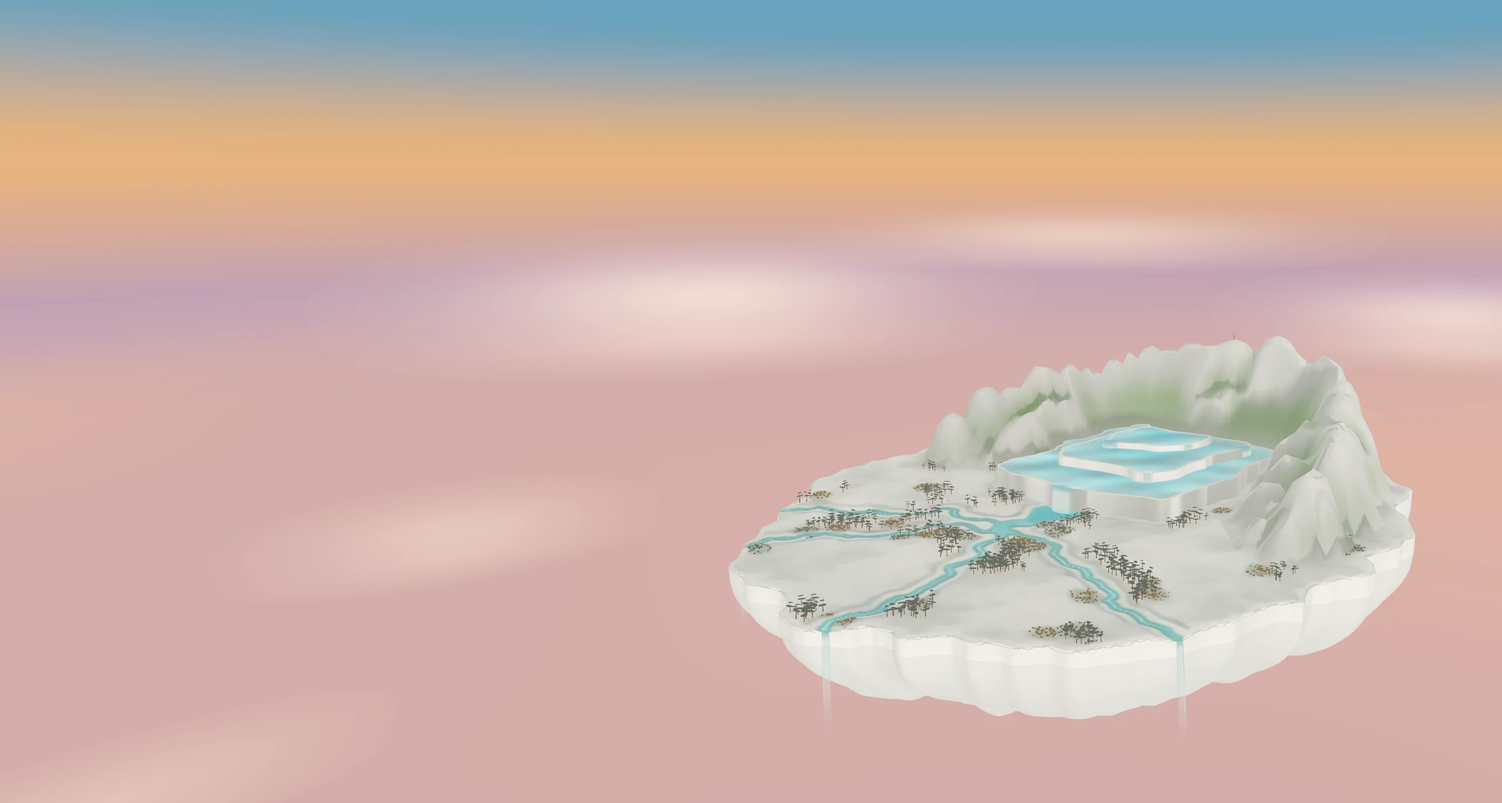
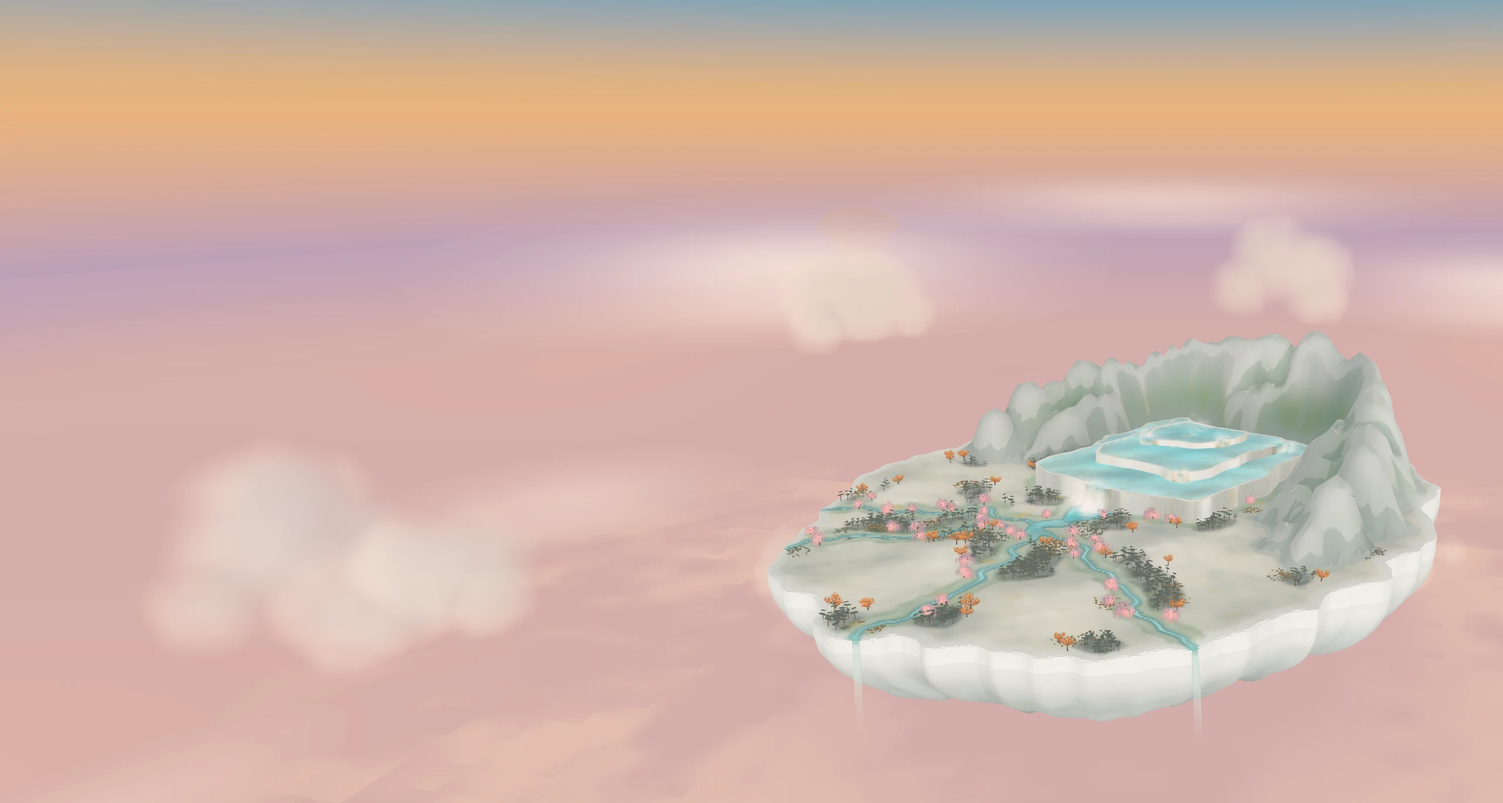
Landing page is now Ideas; fish scatter, a walking dweller, new pictures.
- The plain welcome page is gone: the site opens on Ideas; the header keeps World and Atlas.
- Ideas: a dweller comes to drink and the school scatters, then regroups (the island's SCARE rule);
  the jade panel's dot is now a dweller walking den, water, meadow; the Enter button glows.
- Opening and closing pictures re-shot from the same framing (new far shading and clouds).
- README: owner's screenshots (overview, photo mode, creature editor, tour), links to the new home.

diff --git a/final_project/src/pages/ideas/FishPond.tsx b/final_project/src/pages/ideas/FishPond.tsx
@@ -2,21 +2,29 @@ import { useEffect, useRef } from 'react';
 import { JADE_UI, PORCELAIN } from '../../core/palette';
 import { createRng } from '../../core/rng';
 import { SCHOOL_DEFAULT, schoolPull, type Swimmer } from '../../experiments/wonderland-terrain/schoolRules';
+import { SCARE } from '../../experiments/wonderland-terrain/streamFish';
+import { drawDweller } from './dweller';
 
 /**
  * The streamlings' own school rule (schoolRules.ts), running live on nine fish in a round pool,
- * seen from above. The view drifts with the school over a pebbled floor (so the swimming reads),
+ * seen from above, the whole pool in view over a pebbled floor (so the swimming reads),
  * each fish drawn as the island's: a white body with a jade patch, a beating tail. The red one
  * leads; its three rings are how far each rule reaches (in its body lengths).
+ *
+ * Now and then a dweller comes down to drink (the island's rule, streamFish.ts SCARE): every fish
+ * within its reach darts away, keeps clear while its fear lasts, then the school's rules bring it back.
  */
-const R = 6; // the pool's radius, metres
+const R = 3.5; // the pool's radius, metres
 const L = 0.5; // a fish's length, metres
-const VIEW = 5; // metres across the panel
+const VIEW = 2 * R + 4; // metres across: the pool and the rim the dweller drinks at
+/** A dweller's visit, seconds: walking in, drinking, walking off, away. */
+const VISIT = { in: 4, drink: 6, out: 4, away: 6 };
+const DWELLER = 1.5; // its body length, metres
 
 /** The ink colour at an opacity (shadows and outlines). */
 const ink = (a: number) => `rgba(${[1, 3, 5].map((o) => parseInt(JADE_UI.ink.slice(o, o + 2), 16)).join(',')},${a})`;
 
-interface Fish extends Swimmer { phase: number; mark: number }
+interface Fish extends Swimmer { phase: number; mark: number; fear: number }
 
 export function FishPond() {
   const canvas = useRef<HTMLCanvasElement>(null);
@@ -25,35 +33,57 @@ export function FishPond() {
     if (!c || !ctx) return;
     const rand = createRng(684);
     const reduced = matchMedia('(prefers-reduced-motion: reduce)').matches;
-    const fish: Fish[] = Array.from({ length: 9 }, () => ({ x: (rand() - 0.5) * 2, z: (rand() - 0.5) * 2, heading: rand() * Math.PI * 2, length: L, phase: rand() * 6, mark: rand() }));
+    const fish: Fish[] = Array.from({ length: 9 }, () => ({ x: (rand() - 0.5) * 2, z: (rand() - 0.5) * 2, heading: rand() * Math.PI * 2, length: L, phase: rand() * 6, mark: rand(), fear: 0 }));
     const pebbles = Array.from({ length: 260 }, () => {
       const a = rand() * Math.PI * 2, r = Math.sqrt(rand()) * R;
       return { x: Math.cos(a) * r, z: Math.sin(a) * r, s: 0.03 + rand() * 0.07, a: rand() * 3 };
     });
-    let frame = 0, last = performance.now(), t = 0, cx = 0, cz = 0;
+    let frame = 0, last = performance.now(), t = 0;
+    let visitAt = 6, side = 0; // when the next visit starts, and where on the rim it drinks
     const draw = (now: number) => {
       const dt = reduced ? 0 : Math.min(0.05, (now - last) / 1000); last = now; t += dt;
       // Where the school is heading: a slow loop round the pool.
       const gx = Math.cos(t * 0.12) * R * 0.5, gz = Math.sin(t * 0.17) * R * 0.45;
+      // The dweller's visit: in from beyond the rim on the school's side, drink, then off again.
+      const period = VISIT.in + VISIT.drink + VISIT.out + VISIT.away;
+      if (t >= visitAt + period) visitAt += period;
+      const v = t - visitAt;
+      // It comes down at the rim nearest the school (so the school is within its reach).
+      if (v >= 0 && v < VISIT.in * 0.5) { const sx = fish.reduce((a, f) => a + f.x, 0), sz = fish.reduce((a, f) => a + f.z, 0); side = Math.atan2(sz, sx); }
+      const ux = Math.cos(side), uz = Math.sin(side);
+      const reach = (k: number) => R + DWELLER * 0.62 + k * 5; // the body's middle, its muzzle at the water's edge when k = 0
+      let dweller: { x: number; z: number; dist: number; step: number; dip: number; drinking: boolean } | null = null;
+      if (v >= 0 && v < VISIT.in) dweller = { x: 0, z: 0, dist: reach(1 - v / VISIT.in), step: v * 7, dip: 0, drinking: false };
+      else if (v >= VISIT.in && v < VISIT.in + VISIT.drink) dweller = { x: 0, z: 0, dist: reach(0), step: 0, dip: 1, drinking: true };
+      else if (v >= VISIT.in + VISIT.drink && v < VISIT.in + VISIT.drink + VISIT.out) { const o = v - VISIT.in - VISIT.drink; dweller = { x: 0, z: 0, dist: reach(o / VISIT.out), step: o * 7, dip: 0, drinking: false }; }
+      if (dweller) { dweller.x = ux * dweller.dist; dweller.z = uz * dweller.dist; }
+      const muzzle = dweller && { x: ux * (dweller.dist - DWELLER * 0.62), z: uz * (dweller.dist - DWELLER * 0.62) };
       for (const f of fish) {
+        // Frightened: within reach of a dweller at the water (drinking or close by).
+        if (muzzle && dweller!.dist < reach(0.3) && Math.hypot(f.x - muzzle.x, f.z - muzzle.z) < SCARE.radius) f.fear = 1;
+        f.fear = Math.max(0, f.fear - dt / SCARE.calm);
         const pull = schoolPull(f, fish, SCHOOL_DEFAULT);
         let want = f === fish[0] ? Math.atan2(gz - f.z, gx - f.x) : f.heading;
         if (pull.dir) { const w = pull.repelled ? 2.5 : 1; want = Math.atan2(Math.sin(want) * 0.5 + pull.dir[1] * w, Math.cos(want) * 0.5 + pull.dir[0] * w); }
+        if (f.fear > 0 && muzzle && Math.hypot(f.x - muzzle.x, f.z - muzzle.z) < SCARE.radius * SCARE.keep) want = Math.atan2(f.z - muzzle.z, f.x - muzzle.x);
         if (Math.hypot(f.x, f.z) > R * 0.85) want = Math.atan2(-f.z, -f.x);
         const d = Math.atan2(Math.sin(want - f.heading), Math.cos(want - f.heading));
-        f.heading += Math.max(-dt * 1.8, Math.min(dt * 1.8, d));
-        const speed = 0.55 + 0.15 * Math.sin(t * 1.3 + f.phase);
+        const turn = f.fear > 0.6 ? 5 : 1.8;
+        f.heading += Math.max(-dt * turn, Math.min(dt * turn, d));
+        // The dart: up to SCARE.burst times its cruise at the start of the fright, easing back.
+        const speed = (0.55 + 0.15 * Math.sin(t * 1.3 + f.phase)) * (1 + (SCARE.burst - 1) * f.fear ** 4);
         f.x += Math.cos(f.heading) * speed * dt; f.z += Math.sin(f.heading) * speed * dt;
+        // The pool's wall: a darting fish slides along it rather than out of the water.
+        const r = Math.hypot(f.x, f.z), wall = R - L * 0.6;
+        if (r > wall) { f.x *= wall / r; f.z *= wall / r; }
       }
-      const mx = fish.reduce((s, f) => s + f.x, 0) / fish.length, mz = fish.reduce((s, f) => s + f.z, 0) / fish.length;
-      const ease = reduced ? 1 : 1 - Math.exp(-dt * 1.5);
-      cx += (mx - cx) * ease; cz += (mz - cz) * ease;
 
       const w = c.clientWidth, h = c.clientHeight, dpr = Math.min(devicePixelRatio || 1, 2);
       if (!w || !h) { frame = requestAnimationFrame(draw); return; }
       if (c.width !== Math.round(w * dpr)) { c.width = Math.round(w * dpr); c.height = Math.round(h * dpr); }
       ctx.setTransform(dpr, 0, 0, dpr, 0, 0);
-      const k = w / VIEW, X = (x: number) => w / 2 + (x - cx) * k, Y = (z: number) => h / 2 + (z - cz) * k;
+      // The whole pool and its rim in view (the dweller drinks at the rim; the school crosses to the far side).
+      const k = Math.min(w / VIEW, h / (2 * R + DWELLER * 2.4)), X = (x: number) => w / 2 + x * k, Y = (z: number) => h / 2 + z * k;
 
       // Stone around, water inside: milky jade, deeper towards the middle.
       ctx.fillStyle = PORCELAIN.rockFace; ctx.fillRect(0, 0, w, h);
@@ -70,6 +100,15 @@ export function FishPond() {
       for (const [r, col] of [[SCHOOL_DEFAULT.attract, JADE_UI.jade], [SCHOOL_DEFAULT.align, JADE_UI.jadeDeep], [SCHOOL_DEFAULT.repel, JADE_UI.seal]] as const) {
         ctx.beginPath(); ctx.arc(X(lead.x), Y(lead.z), r * L * k, 0, Math.PI * 2);
         ctx.setLineDash([4, 4]); ctx.strokeStyle = col; ctx.lineWidth = 1.2; ctx.stroke(); ctx.setLineDash([]);
+      }
+
+      // The dweller (its reach dashed round its muzzle while it drinks).
+      if (dweller && muzzle) {
+        if (dweller.drinking) {
+          ctx.beginPath(); ctx.arc(X(muzzle.x), Y(muzzle.z), SCARE.radius * k, 0, Math.PI * 2);
+          ctx.setLineDash([2, 5]); ctx.strokeStyle = ink(0.35); ctx.lineWidth = 1; ctx.stroke(); ctx.setLineDash([]);
+        }
+        drawDweller(ctx, X(dweller.x), Y(dweller.z), side + Math.PI * (dweller.dist > reach(0) + 0.01 && v > VISIT.in ? 0 : 1), DWELLER * k, dweller.step, dweller.dip);
       }
 
       // Each fish: a soft shadow on the floor, a tapered white body, a jade patch, a beating tail.

diff --git a/final_project/src/pages/Ideas.tsx b/final_project/src/pages/Ideas.tsx
@@ -1,12 +1,14 @@
 import { useEffect, useRef, useState, type CSSProperties, type ReactNode } from 'react';
 import { Link } from 'react-router-dom';
-import { JADE_UI } from '../core/palette';
+import { JADE_UI, PORCELAIN } from '../core/palette';
+import { drawDweller } from './ideas/dweller';
 import { useLanguage } from '../i18n/LanguageContext';
 import type { StringKey } from '../i18n/strings';
 import { LifeCard, type LifeNeed } from '../experiments/wonderland-terrain/LifeCard';
 import { GrowSteps } from './ideas/GrowSteps';
 import { FishPond } from './ideas/FishPond';
 import { SCHOOL_DEFAULT } from '../experiments/wonderland-terrain/schoolRules';
+import { SCARE } from '../experiments/wonderland-terrain/streamFish';
 
 /**
  * The Ideas page (docs/plan-2026-11-19-ideas-page.md): one full-screen stage held in place while the
@@ -80,34 +82,79 @@ function LifeMini() {
     needs={needs} traits={[{ word: t('trait.roam.high'), note: '' }, { word: t('trait.bold.low'), note: '' }]} />;
 }
 
-/** Dwelling turns stone to jade: a walker's steps tint the cells it crosses, a little each time. */
+/**
+ * Dwelling turns stone to jade: a dweller walks its day (den, water, meadow, den again), pausing at
+ * each, and the cells under its steps tint a little each time; the ways it walks most turn deepest.
+ */
+const STOPS = [
+  { x: 0.16, z: 0.62, kind: 'den', stay: 2.4 },
+  { x: 0.8, z: 0.3, kind: 'water', stay: 1.8 },
+  { x: 0.62, z: 0.78, kind: 'meadow', stay: 2.6 },
+] as const;
 function JadeMini() {
   const canvas = useRef<HTMLCanvasElement>(null);
   useEffect(() => {
     const c = canvas.current, ctx = c?.getContext('2d');
     if (!c || !ctx) return;
     const NX = 28, NZ = 16, cells = new Float32Array(NX * NZ);
-    // Stone white to jade (JADE_UI.paper → jadeDeep), as the island's contact tint deepens.
+    // Stone white to jade (JADE_UI.paper -> jadeDeep), as the island's contact tint deepens.
     const from = [0xf6, 0xf3, 0xec], to = [0x5f, 0x87, 0x7d];
-    let frame = 0, t = 0, last = performance.now();
+    const reduced = matchMedia('(prefers-reduced-motion: reduce)').matches;
+    // A walk: each leg bends a little (the same few ways, walked again and again).
+    let leg = 0, legT = 0, waiting: number = STOPS[0].stay, step = 0;
+    let px = STOPS[0].x * NX, pz = STOPS[0].z * NZ, heading = 0;
+    let frame = 0, last = performance.now();
     const draw = (now: number) => {
-      const dt = Math.min(0.05, (now - last) / 1000); last = now; t += dt;
-      // A loop between a "den", a "pool" and a "meadow": the same few ways, walked again and again.
-      const x = NX / 2 + Math.sin(t * 0.5) * NX * 0.38, z = NZ / 2 + Math.sin(t * 1.0 + 0.6) * NZ * 0.3;
-      for (let i = -1; i <= 1; i++) for (let j = -1; j <= 1; j++) {
-        const ci = Math.round(x) + i, cj = Math.round(z) + j;
-        if (ci >= 0 && cj >= 0 && ci < NX && cj < NZ) cells[cj * NX + ci] = Math.min(1, cells[cj * NX + ci] + dt * (i || j ? 0.09 : 0.25));
+      const dt = reduced ? 0 : Math.min(0.05, (now - last) / 1000); last = now;
+      const a = STOPS[leg], b = STOPS[(leg + 1) % STOPS.length];
+      if (waiting > 0) waiting -= dt;
+      else {
+        const ax = a.x * NX, az = a.z * NZ, bx = b.x * NX, bz = b.z * NZ;
+        const len = Math.hypot(bx - ax, bz - az);
+        legT = Math.min(1, legT + dt * 3.2 / len);
+        const bend = Math.sin(legT * Math.PI) * 2.2 * (leg % 2 ? 1 : -1);
+        const nx = -(bz - az) / len, nz = (bx - ax) / len;
+        const x = ax + (bx - ax) * legT + nx * bend, z = az + (bz - az) * legT + nz * bend;
+        heading = Math.atan2(z - pz, x - px); px = x; pz = z; step += dt * 9;
+        if (legT >= 1) { leg = (leg + 1) % STOPS.length; legT = 0; waiting = STOPS[leg].stay; }
+        for (let i = -1; i <= 1; i++) for (let j = -1; j <= 1; j++) {
+          const ci = Math.round(px) + i, cj = Math.round(pz) + j;
+          if (ci >= 0 && cj >= 0 && ci < NX && cj < NZ) cells[cj * NX + ci] = Math.min(1, cells[cj * NX + ci] + dt * (i || j ? 0.05 : 0.16));
+        }
       }
       const w = c.clientWidth, h = c.clientHeight, dpr = Math.min(devicePixelRatio || 1, 2);
-      if (c.width !== w * dpr) { c.width = w * dpr; c.height = h * dpr; }
+      if (!w || !h) { frame = requestAnimationFrame(draw); return; }
+      if (c.width !== Math.round(w * dpr)) { c.width = Math.round(w * dpr); c.height = Math.round(h * dpr); }
       ctx.setTransform(dpr, 0, 0, dpr, 0, 0);
       const cw = w / NX, ch = h / NZ;
       for (let j = 0; j < NZ; j++) for (let i = 0; i < NX; i++) {
         const v = cells[j * NX + i];
-        ctx.fillStyle = `rgb(${from.map((a, k) => Math.round(a + (to[k] - a) * v)).join(',')})`;
+        ctx.fillStyle = `rgb(${from.map((f, k) => Math.round(f + (to[k] - f) * v)).join(',')})`;
         ctx.fillRect(i * cw, j * ch, cw - 1, ch - 1);
       }
-      ctx.beginPath(); ctx.arc(x * cw, z * ch, Math.min(cw, ch) * 0.55, 0, Math.PI * 2); ctx.fillStyle = JADE_UI.ink; ctx.fill();
+      // The three places it keeps going to.
+      for (const st of STOPS) {
+        const x = st.x * w, y = st.z * h, r = Math.min(cw, ch) * 1.6;
+        ctx.lineWidth = 1.4; ctx.strokeStyle = JADE_UI.inkDim;
+        if (st.kind === 'den') {
+          ctx.fillStyle = PORCELAIN.rockFace;
+          ctx.beginPath(); ctx.moveTo(x - r * 1.2, y + r * 0.7); ctx.quadraticCurveTo(x, y - r * 1.7, x + r * 1.2, y + r * 0.7); ctx.closePath(); ctx.fill(); ctx.stroke();
+          ctx.fillStyle = JADE_UI.ink; ctx.globalAlpha = 0.35;
+          ctx.beginPath(); ctx.ellipse(x, y + r * 0.45, r * 0.45, r * 0.32, 0, Math.PI, 0); ctx.fill(); ctx.globalAlpha = 1;
+        } else if (st.kind === 'water') {
+          ctx.fillStyle = PORCELAIN.water;
+          ctx.beginPath(); ctx.ellipse(x, y, r * 1.5, r, 0.3, 0, Math.PI * 2); ctx.fill(); ctx.stroke();
+        } else {
+          ctx.strokeStyle = JADE_UI.jadeDeep;
+          for (const [ox, oz] of [[-0.9, 0.3], [0, -0.2], [0.9, 0.35]]) {
+            const gx = x + ox * r, gz = y + oz * r;
+            ctx.beginPath(); ctx.moveTo(gx - r * 0.3, gz - r * 0.5); ctx.lineTo(gx, gz + r * 0.3); ctx.lineTo(gx + r * 0.3, gz - r * 0.5); ctx.moveTo(gx, gz + r * 0.3); ctx.lineTo(gx, gz - r * 0.7); ctx.stroke();
+          }
+        }
+      }
+      // The dweller (head down while it drinks or grazes).
+      const atStop = waiting > 0 ? STOPS[leg].kind : null;
+      drawDweller(ctx, px * cw, pz * ch, heading, Math.min(cw, ch) * 3.4, waiting > 0 ? 0 : step, atStop === 'water' || atStop === 'meadow' ? 1 : 0);
       frame = requestAnimationFrame(draw);
     };
     frame = requestAnimationFrame(draw);
@@ -177,7 +224,8 @@ export default function Ideas() {
                 <svg viewBox="0 0 16 16" width="16" height="16" aria-hidden="true"><circle cx="8" cy="8" r="6" fill="none" stroke={col} strokeWidth="1.6" strokeDasharray="3 2" /></svg>
                 {t(`ideas.fish.${k}` as StringKey)}<em>{t('ideas.fish.body').replace('{n}', String(SCHOOL_RINGS[k]))}</em></li>)}
             </ul>
-            <p className="ideas-note">{t('ideas.fish.lead')}</p></Rise>
+            <p className="ideas-note">{t('ideas.fish.lead')}</p>
+            <p className="ideas-note">{t('ideas.fish.scare').replace('{r}', String(SCARE.radius)).replace('{s}', String(SCARE.calm))}</p></Rise>
           <Rise on={on(2)} delay={200} className="ideas-panel ideas-pond"><FishPond /></Rise>
         </div>, 'ideas-left')}
 

diff --git a/final_project/src/pages/ideas/dweller.ts b/final_project/src/pages/ideas/dweller.ts
@@ -1,0 +1,40 @@
+import { JADE_UI, PORCELAIN } from '../../core/palette';
+
+/**
+ * A jade dweller seen from above, for the Ideas page's small canvases: a pale body, neck and head,
+ * a pair of jade antlers, four legs stepping while it walks. `x, y` is the body's middle, `heading`
+ * where the muzzle points (radians, canvas axes), `s` its body length in pixels, `step` the gait phase
+ * (0 while standing), `dip` 0–1 lowers the head to drink or graze.
+ */
+export function drawDweller(ctx: CanvasRenderingContext2D, x: number, y: number, heading: number, s: number, step: number, dip = 0) {
+  ctx.save();
+  ctx.translate(x, y); ctx.rotate(heading);
+  const line = Math.max(0.8, s * 0.035);
+  ctx.lineJoin = 'round'; ctx.lineCap = 'round';
+  // Shadow.
+  ctx.fillStyle = 'rgba(46,51,48,0.16)';
+  ctx.beginPath(); ctx.ellipse(s * 0.06, s * 0.1, s * 0.48, s * 0.2, 0, 0, Math.PI * 2); ctx.fill();
+  // Legs: front and back pairs swinging in opposite phase.
+  ctx.strokeStyle = JADE_UI.ink; ctx.lineWidth = line * 2.2;
+  const swing = Math.sin(step) * s * 0.08;
+  for (const [lx, side, ph] of [[0.24, -1, 1], [0.24, 1, -1], [-0.26, -1, -1], [-0.26, 1, 1]] as const) {
+    ctx.beginPath(); ctx.moveTo(s * lx, side * s * 0.1); ctx.lineTo(s * lx + swing * ph, side * s * 0.2); ctx.stroke();
+  }
+  // Tail.
+  ctx.strokeStyle = PORCELAIN.fishBody; ctx.lineWidth = line * 2.4;
+  ctx.beginPath(); ctx.moveTo(-s * 0.42, 0); ctx.quadraticCurveTo(-s * 0.55, Math.sin(step * 0.5) * s * 0.06, -s * 0.6, s * 0.04); ctx.stroke();
+  // Body.
+  ctx.fillStyle = JADE_UI.paper; ctx.strokeStyle = JADE_UI.ink; ctx.lineWidth = line;
+  ctx.beginPath(); ctx.ellipse(-s * 0.02, 0, s * 0.42, s * 0.15, 0, 0, Math.PI * 2); ctx.fill(); ctx.stroke();
+  // Neck and head (reaching further forward as it dips to drink).
+  const hx = s * (0.5 + 0.12 * dip);
+  ctx.beginPath(); ctx.moveTo(s * 0.32, -s * 0.06); ctx.lineTo(hx - s * 0.04, -s * 0.05); ctx.lineTo(hx - s * 0.04, s * 0.05); ctx.lineTo(s * 0.32, s * 0.06); ctx.closePath(); ctx.fill(); ctx.stroke();
+  ctx.beginPath(); ctx.ellipse(hx, 0, s * 0.1, s * 0.075, 0, 0, Math.PI * 2); ctx.fill(); ctx.stroke();
+  // Antlers: two forked jade strokes.
+  ctx.strokeStyle = JADE_UI.jade; ctx.lineWidth = line * 1.6;
+  for (const side of [-1, 1]) {
+    ctx.beginPath(); ctx.moveTo(hx - s * 0.04, side * s * 0.05); ctx.lineTo(hx - s * 0.14, side * s * 0.17);
+    ctx.moveTo(hx - s * 0.1, side * s * 0.12); ctx.lineTo(hx - s * 0.03, side * s * 0.2); ctx.stroke();
+  }
+  ctx.restore();
+}

diff --git a/final_project/src/index.css b/final_project/src/index.css
@@ -995,7 +995,10 @@ body[data-world-pointer='creature'] .wonderland-canvas, body[data-world-pointer=
 /* The last scene sits in the night sky above the island; its door is a filled pill (readable on any ground). */
 .ideas-sky { justify-content: flex-start; padding-top: clamp(48px, 12vh, 140px); }
 .ideas-sky .ideas-enter { background: var(--jade-paper); border-color: var(--jade-paper); color: var(--jade-ink); }
-.ideas-sky .ideas-enter:hover { background: var(--jade-jade); border-color: var(--jade-jade); color: var(--jade-ink); }
+.ideas-sky .ideas-enter { transition: box-shadow .4s ease, transform .4s ease; }
+/* Hover: the button glows on the night sky (owner, 2026-11-22: turning jade green did not sit with the dark). */
+.ideas-sky .ideas-enter:hover, .ideas-sky .ideas-enter:focus-visible { background: var(--jade-paper); border-color: var(--jade-paper); color: var(--jade-ink); transform: translateY(-1px);
+  box-shadow: 0 0 0 1px color-mix(in srgb, var(--jade-paper) 60%, transparent), 0 0 18px 2px color-mix(in srgb, var(--jade-paper) 55%, transparent), 0 0 46px 10px color-mix(in srgb, var(--jade-paper) 22%, transparent); }
 
 /* Ideas, round 2: every text block sits on a paper card (as the dwellers' panels do), set with room to breathe. */
 .ideas-card { box-sizing: border-box; max-width: 620px; padding: clamp(22px, 3vw, 36px) clamp(24px, 3.4vw, 42px); border: 1px solid color-mix(in srgb, var(--jade-line) 80%, transparent); border-radius: 22px; background: color-mix(in srgb, var(--jade-paper) 88%, transparent); backdrop-filter: blur(10px) saturate(1.05); box-shadow: 0 18px 50px #2e333018; color: var(--jade-ink); }

diff --git a/final_project/src/main.tsx b/final_project/src/main.tsx
@@ -4,7 +4,6 @@ import { HashRouter, Navigate, NavLink, Route, Routes } from 'react-router-dom';
 import { ATLAS_UI, JADE_UI, PHOTO, SPEED_TRACK, SILK_UI, UI, LAYER, WEAR_DEBUG, ZONE_DEBUG } from './core/palette';
 import { LanguageProvider, useLanguage } from './i18n/LanguageContext';
 import { LANGUAGES } from './i18n/strings';
-import Home from './pages/Home';
 import Ideas from './pages/Ideas';
 import Atlas from './pages/Atlas';
 import ExperimentPage from './pages/ExperimentPage';
@@ -44,7 +43,6 @@ function Header() {
     <header className="site-header">
       <nav>
         <NavLink to="/" end className="brand">{t('site.brand')}</NavLink>
-        <NavLink to="/ideas">{t('nav.ideas')}</NavLink>
         <NavLink to="/world">{t('nav.world')}</NavLink>
         <NavLink to="/atlas">{t('nav.atlas')}</NavLink>
       </nav>
@@ -66,8 +64,9 @@ createRoot(document.getElementById('root')!).render(
         <Header />
         <main>
           <Routes>
-            <Route path="/" element={<Home />} />
-            <Route path="/ideas" element={<Ideas />} />
+            {/* The landing page is the Ideas page (owner, 2026-11-22: the plain welcome page went). */}
+            <Route path="/" element={<Ideas />} />
+            <Route path="/ideas" element={<Navigate to="/" replace />} />
             <Route path="/atlas" element={<Atlas />} />
             {/* The island moved to World; old links still arrive. */}
             <Route path="/atlas/wonderland-terrain" element={<Navigate to="/world" replace />} />

diff --git a/final_project/src/i18n/strings.ts b/final_project/src/i18n/strings.ts
@@ -796,6 +796,7 @@ const en = {
   'ideas.fish.attract': 'Too far: come back',
   'ideas.fish.body': '{n} × body length',
   'ideas.fish.lead': 'One fish leads; the rings are its view.',
+  'ideas.fish.scare': 'When a dweller comes to drink, every fish within {r} m darts away; after about {s} s the school’s rules bring them home.',
   'ideas.refs.credit': 'Paintings and books: Wikimedia Commons, public domain. Game images belong to their makers.',
   'exhibit.reshaping': 'Reshaping the island',
   'layers.title': 'Layers',
@@ -1917,6 +1918,7 @@ const zh: Record<StringKey, string> = {
   'ideas.fish.attract': '太远：游回来',
   'ideas.fish.body': '{n} 倍体长',
   'ideas.fish.lead': '红色那条带路，三个圈是它的感知范围。',
+  'ideas.fish.scare': '白玉兽来喝水时，{r} 米内的鱼会四散逃开；大约 {s} 秒后，鱼群的规则又把它们聚回来。',
   'ideas.refs.credit': '典籍与绘画图片来自维基共享资源（公有领域）；游戏图片版权归各自所有者。',
   'exhibit.reshaping': '正在重塑岛屿',
   'layers.title': '图层',

diff --git a/README.md b/README.md
@@ -1,8 +1,8 @@
-<a href="https://whitejadeisland.web.app/#/ideas"><img src="docs/readme/banner.jpg" alt="White Jade Island: an island above the clouds, grown from rules" width="100%"></a>
+<a href="https://whitejadeisland.web.app/"><img src="docs/readme/banner.jpg" alt="White Jade Island: an island above the clouds, grown from rules" width="100%"></a>
 
 <p align="center">
   <a href="https://whitejadeisland.web.app/#/world"><b>▶ Enter the island</b></a> &nbsp;·&nbsp;
-  <a href="https://whitejadeisland.web.app/#/ideas">Ideas</a> &nbsp;·&nbsp;
+  <a href="https://whitejadeisland.web.app/">How it grows</a> &nbsp;·&nbsp;
   <a href="https://whitejadeisland.web.app/#/atlas">Atlas</a> &nbsp;·&nbsp;
   <a href="docs/process.md">Process log</a>
 </p>
@@ -15,28 +15,35 @@
 
 | | |
 | :---: | :---: |
-| [![Terrain](docs/readme/rules.jpg)](https://whitejadeisland.web.app/#/ideas) | [![Water](docs/readme/water.jpg)](https://whitejadeisland.web.app/#/world) |
+| [![Terrain](docs/readme/rules.jpg)](https://whitejadeisland.web.app/) | [![Water](docs/readme/water.jpg)](https://whitejadeisland.web.app/#/world) |
 | **Grown from one seed** · terrain → water → zones → life | **Streams and pools** · a school of streamlings in each |
 | [![Dwellers](docs/readme/life.jpg)](https://whitejadeisland.web.app/#/world) | [![Woods](docs/readme/refs.jpg)](https://whitejadeisland.web.app/#/atlas) |
 | **Two jade dwellers** · needs, names, dens of their own | **Pine woods and dens** · placed by height, slope and water |
 
 ## New on the island
 
-[![A dweller resting in its den](docs/readme/den.jpg)](https://whitejadeisland.web.app/#/world)
+[![The whole island at dusk](docs/readme/overview.jpg)](https://whitejadeisland.web.app/#/world)
+
+| | |
+| :---: | :---: |
+| [![Photo mode: a print after The Starry Night](docs/readme/photo-print.jpg)](https://whitejadeisland.web.app/#/world) | [![Photo mode: watercolour film](docs/readme/photo-mode.jpg)](https://whitejadeisland.web.app/#/world) |
+| **Take a picture** · five films after famous paintings, an instant print or a handscroll | **Through the viewfinder** · ink, blue-green, watercolour, oil |
+| [![The jade dweller's editor](docs/readme/creature-editor.jpg)](https://whitejadeisland.web.app/#/world) | [![A dweller resting in its den](docs/readme/den.jpg)](https://whitejadeisland.web.app/#/world) |
+| **Reshape a dweller** · build, legs, antlers that branch generation by generation | **Follow a dweller** · the camera finds it and looks into its den |
 
 | | What | Where |
 | --- | --- | --- |
-| 🧭 | **A first-visit tour**: seven short steps, one control lit at a time | Opens on your first visit · Settings → Explore → Show me round |
+| 🧭 | **A first-visit tour**: seven short steps, one control lit at a time ([see it](docs/readme/tour.jpg)) | Opens on your first visit · Settings → Explore → Show me round |
 | 🌿 | **Every plant has its own editor**: replay its growth, turn its knobs, apply it to the island | Settings → Explore → Field guide → Plants |
 | 🎨 | **The shrubs' colour ring**: drag the shares of olive, ochre and iron red; the island recolours | Field guide → Shrub |
-| 🦌 | **Follow a dweller**: the camera finds it, and looks into its den when it rests | The Creature chapter |
+| 🐟 | **Fish that scatter**: when a dweller drinks, the school darts off, then regroups | The home page, and any pool on the island |
 
 ## Explore
 
 | | Where | What you find |
 | --- | --- | --- |
 | 🏝 | [**World**](https://whitejadeisland.web.app/#/world) | The island, live: chapters, time of day, the creatures' cards |
-| 💡 | [**Ideas**](https://whitejadeisland.web.app/#/ideas) | How it grows, the rules of the fish and the dwellers, the sources |
+| 💡 | [**Home**](https://whitejadeisland.web.app/) | How it grows, the rules of the fish and the dwellers, the sources |
 | 🗂 | [**Atlas**](https://whitejadeisland.web.app/#/atlas) | Every technique on its own, earlier studies (Penglai), class exercises |
 
 ## Read more

diff --git a/final_project/docs/plan-2026-11-19-far-view.md b/final_project/docs/plan-2026-11-19-far-view.md
@@ -605,3 +605,13 @@
   - 点小兽本身没有出错，但它的卡片在进入「生灵」时就已经打开，点了看不出变化。所以第 4 步改为同时亮起小兽和下面的状态卡片，点击提示放在头像上。点头像或「查看形态」算做到。
   - 图鉴统一命名为「岛屿图鉴」，英文为「Field guide」。
   - 引导和设置里的按钮都不再折行。
+
+## 第二十五轮：首页与 Ideas 更新（2026-11-22）
+
+- 去掉了原来只有一个「进入」按钮的首页。网址根目录直接打开 Ideas，顶栏只剩 World 和 Atlas，旧的 `#/ideas` 链接会自动跳到首页。
+- 鱼群小组件：白玉兽会定时走到池边喝水，在它够得着的范围内（SCARE.radius = 7 米）鱼群四散逃开，约 14 秒后重新聚拢，用的是岛上同一组常数。画面固定显示整个水池，卡片上加了一句规则说明。
+- 白玉兽小组件：黑点换成从上往下看的白玉兽，沿 窝 → 水 → 草地 → 窝 循环走，在每处停一会儿，喝水和吃草时低头；走过的格子慢慢变成玉色。
+- 「进入白玉岛」按钮：悬停时不再变绿，改成纸白色的柔光。
+- 开篇和结尾两张图按原来的机位重新截了，能看到新的远景着色和云（开篇是 18 点黄昏，结尾是 0 点夜里）。
+- README：把首页链接换成新网址，「New on the island」一节换成所有者截的总览、拍照和白玉兽编辑器等图片。
+- 字体：给了 4 个小字字体候选，等所有者挑选，暂未改动。
